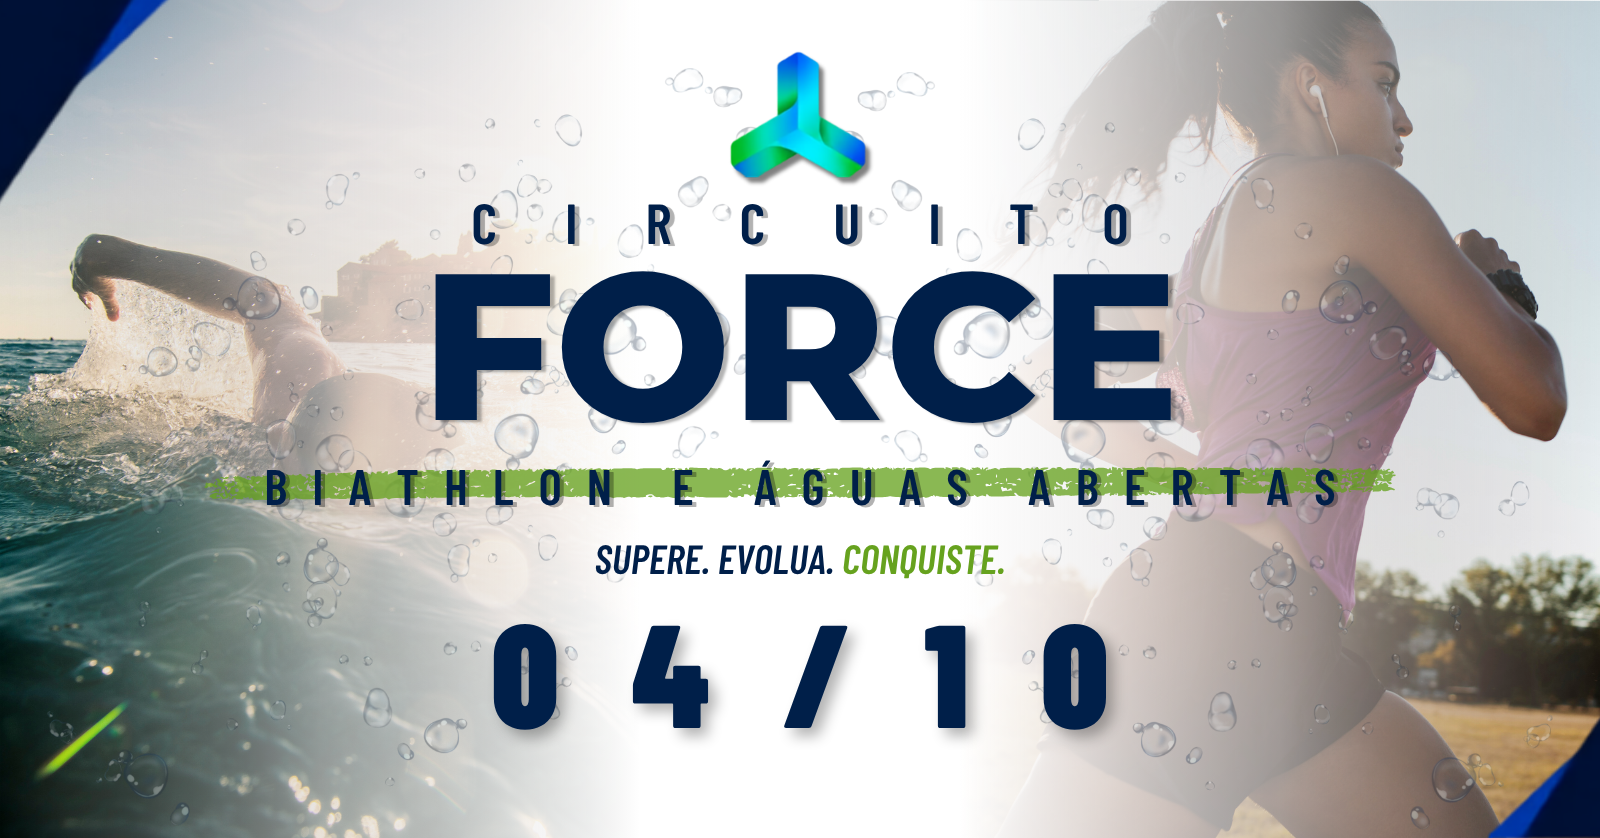
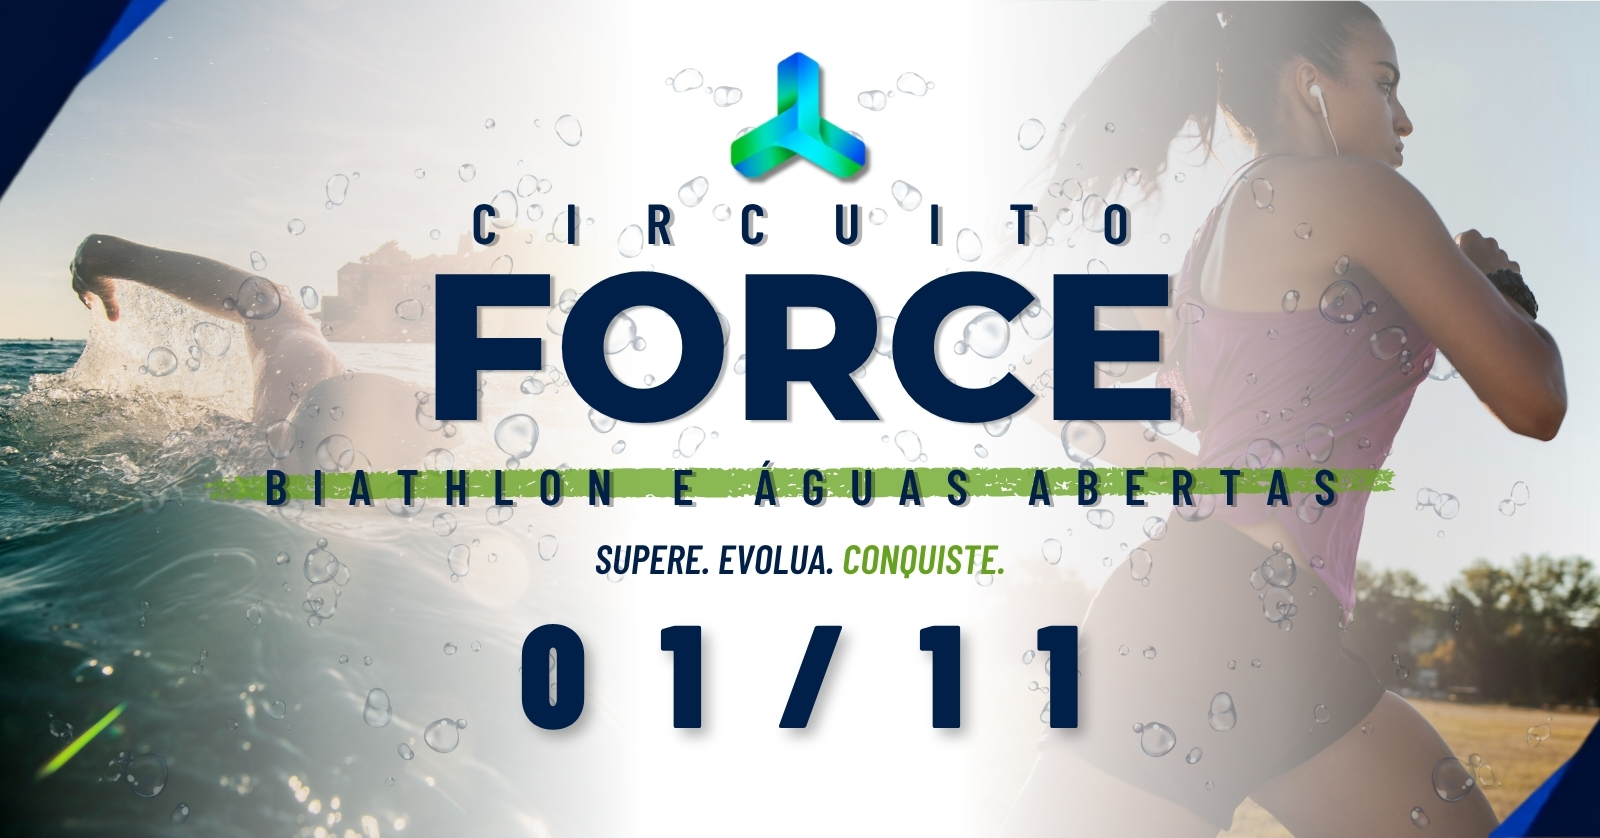
Atualiza data do Circuito Force

diff --git a/pages/eventos/circuito-force.html b/pages/eventos/circuito-force.html
@@ -4,7 +4,7 @@
     <meta charset="UTF-8" />
     <meta name="viewport" content="width=device-width, initial-scale=1.0" />
     <title>Circuito Force de Biathlon e &Aacute;guas Abertas | RB Eventos</title>
-    <meta name="description" content="Circuito Force de Biathlon e &Aacute;guas Abertas, dia 04 de outubro de 2026 no Condom&iacute;nio Nossa Fazenda, em Esmeraldas. Inscri&ccedil;&otilde;es pela Sympla." />
+    <meta name="description" content="Circuito Force de Biathlon e &Aacute;guas Abertas, dia 01 de novembro de 2026 no Condom&iacute;nio Nossa Fazenda, em Esmeraldas. Inscri&ccedil;&otilde;es pela Sympla." />
     <meta name="robots" content="index, follow, max-image-preview:large" />
     <meta name="author" content="RB Eventos Esportivos" />
     <meta name="theme-color" content="#001d49" />
@@ -14,7 +14,7 @@
     <meta property="og:type" content="website" />
     <meta property="og:site_name" content="RB Eventos Esportivos" />
     <meta property="og:title" content="Circuito Force de Biathlon e &Aacute;guas Abertas" />
-    <meta property="og:description" content="Agora n&atilde;o &eacute; mais treino. &Eacute; competi&ccedil;&atilde;o. Dia 04 de outubro no Condom&iacute;nio Nossa Fazenda." />
+    <meta property="og:description" content="Agora n&atilde;o &eacute; mais treino. &Eacute; competi&ccedil;&atilde;o. Dia 01 de novembro no Condom&iacute;nio Nossa Fazenda." />
     <meta property="og:url" content="https://rbeventosesportivos.com.br/pages/eventos/circuito-force.html" />
     <meta property="og:image" content="https://rbeventosesportivos.com.br/assets/images/events/circuito-force/banner.png" />
     <meta property="og:image:secure_url" content="https://rbeventosesportivos.com.br/assets/images/events/circuito-force/banner.png" />
@@ -44,8 +44,8 @@
       "@id": "https://rbeventosesportivos.com.br/pages/eventos/circuito-force.html#event",
       "name": "Circuito Force de Biathlon e Aguas Abertas",
       "description": "Competicao de Biathlon e Maratona Aquatica para atletas iniciantes, intermediarios e experientes.",
-      "startDate": "2026-10-04T06:00:00-03:00",
-      "endDate": "2026-10-04T20:00:00-03:00",
+      "startDate": "2026-11-01T06:00:00-03:00",
+      "endDate": "2026-11-01T20:00:00-03:00",
       "eventStatus": "https://schema.org/EventScheduled",
       "eventAttendanceMode": "https://schema.org/OfflineEventAttendanceMode",
       "image": "https://rbeventosesportivos.com.br/assets/images/events/circuito-force/banner.png",
@@ -113,7 +113,7 @@
 
       <section class="event-highlights" aria-label="Informa&ccedil;&otilde;es principais do evento">
         <div class="container highlights-grid">
-          <div><span>Data</span><strong>04 OUT 2026</strong></div>
+          <div><span>Data</span><strong>01 NOV 2026</strong></div>
           <div><span>Hor&aacute;rio</span><strong>06h &agrave;s 20h</strong></div>
           <div><span>Local</span><strong>Condom&iacute;nio Nossa Fazenda</strong><small>Esmeraldas, MG</small></div>
         </div>
@@ -126,7 +126,7 @@
             <h2>Supere. Evolua. Conquiste.</h2>
           </div>
           <div class="intro-copy">
-            <p>No dia 04 de outubro, o Condom&iacute;nio Nossa Fazenda recebe atletas iniciantes, intermedi&aacute;rios e experientes para uma experi&ecirc;ncia de competi&ccedil;&atilde;o em meio &agrave; natureza.</p>
+            <p>No dia 01 de novembro, o Condom&iacute;nio Nossa Fazenda recebe atletas iniciantes, intermedi&aacute;rios e experientes para uma experi&ecirc;ncia de competi&ccedil;&atilde;o em meio &agrave; natureza.</p>
             <p>Escolha entre o Biathlon, combinando nata&ccedil;&atilde;o e corrida, ou a Maratona Aqu&aacute;tica, com tr&ecirc;s dist&acirc;ncias em &aacute;guas abertas.</p>
           </div>
         </div>

diff --git a/index.html b/index.html
@@ -139,7 +139,7 @@
           <h1 class="slide-title">CIRCUITO FORCE</h1>
           <p class="slide-subtitle">Agora n&atilde;o &eacute; mais treino. &Eacute; competi&ccedil;&atilde;o.</p>
           <div class="slide-meta">
-            <span>&#128197; 04 OUTUBRO 2026</span>
+            <span>&#128197; 01 NOVEMBRO 2026</span>
             <span>&#128205; Condom&iacute;nio Nossa Fazenda - Esmeraldas/MG</span>
           </div>
           <a href="https://www.sympla.com.br/evento/circuito-force-de-biatlhon-e-aguas-abertas-copia/3519985" target="_blank" rel="noopener noreferrer" class="slide-link-btn">Inscreva-se Agora &rarr;</a>
@@ -224,7 +224,7 @@
           </div>
         </div>
         <div class="event-month-group">
-          <h5 class="event-month-title">Outubro</h5>
+          <h5 class="event-month-title">Novembro</h5>
           <div class="events-grid">
             <div class="event-card" data-status="aberto">
               <div class="card-image-box">
@@ -232,7 +232,7 @@
                 <span class="card-status-pill status-aberto">Inscri&ccedil;&otilde;es Abertas</span>
               </div>
               <div class="card-body">
-                <div class="card-date">04 OUT 2026</div>
+                <div class="card-date">01 NOV 2026</div>
                 <h4 class="card-title">Circuito Force: Biathlon &amp; &Aacute;guas Abertas</h4>
                 <div class="card-location">Esmeraldas - MG</div>
 
